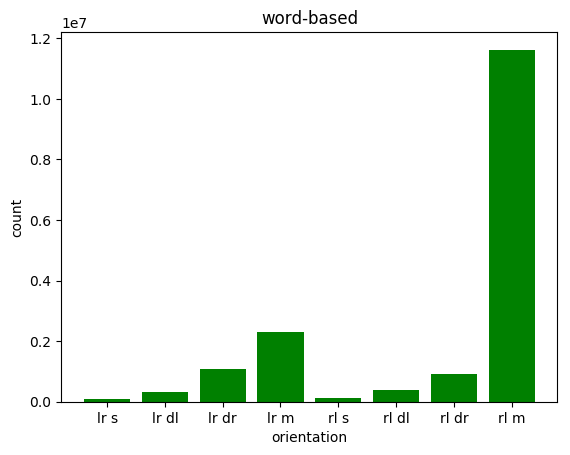
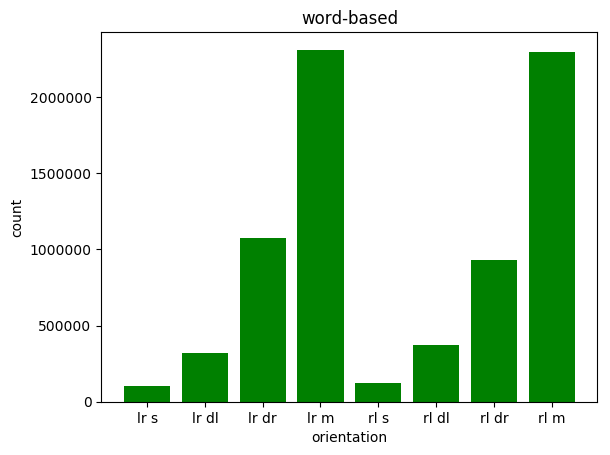
plots fixed

diff --git a/Assignment2/src/analysis.py b/Assignment2/src/analysis.py
@@ -184,7 +184,7 @@ if __name__ == '__main__':
                                 ['rl s', 'count_word_RL_s'],
                                 ['rl dl', 'count_word_RL_dl'],
                                 ['rl dr', 'count_word_RL_dr'],
-                                ['rl m', 'count_phrase_RL_m']]
+                                ['rl m', 'count_word_RL_m']]
 
     create_orientation_barcharts(counts_dict)
 
